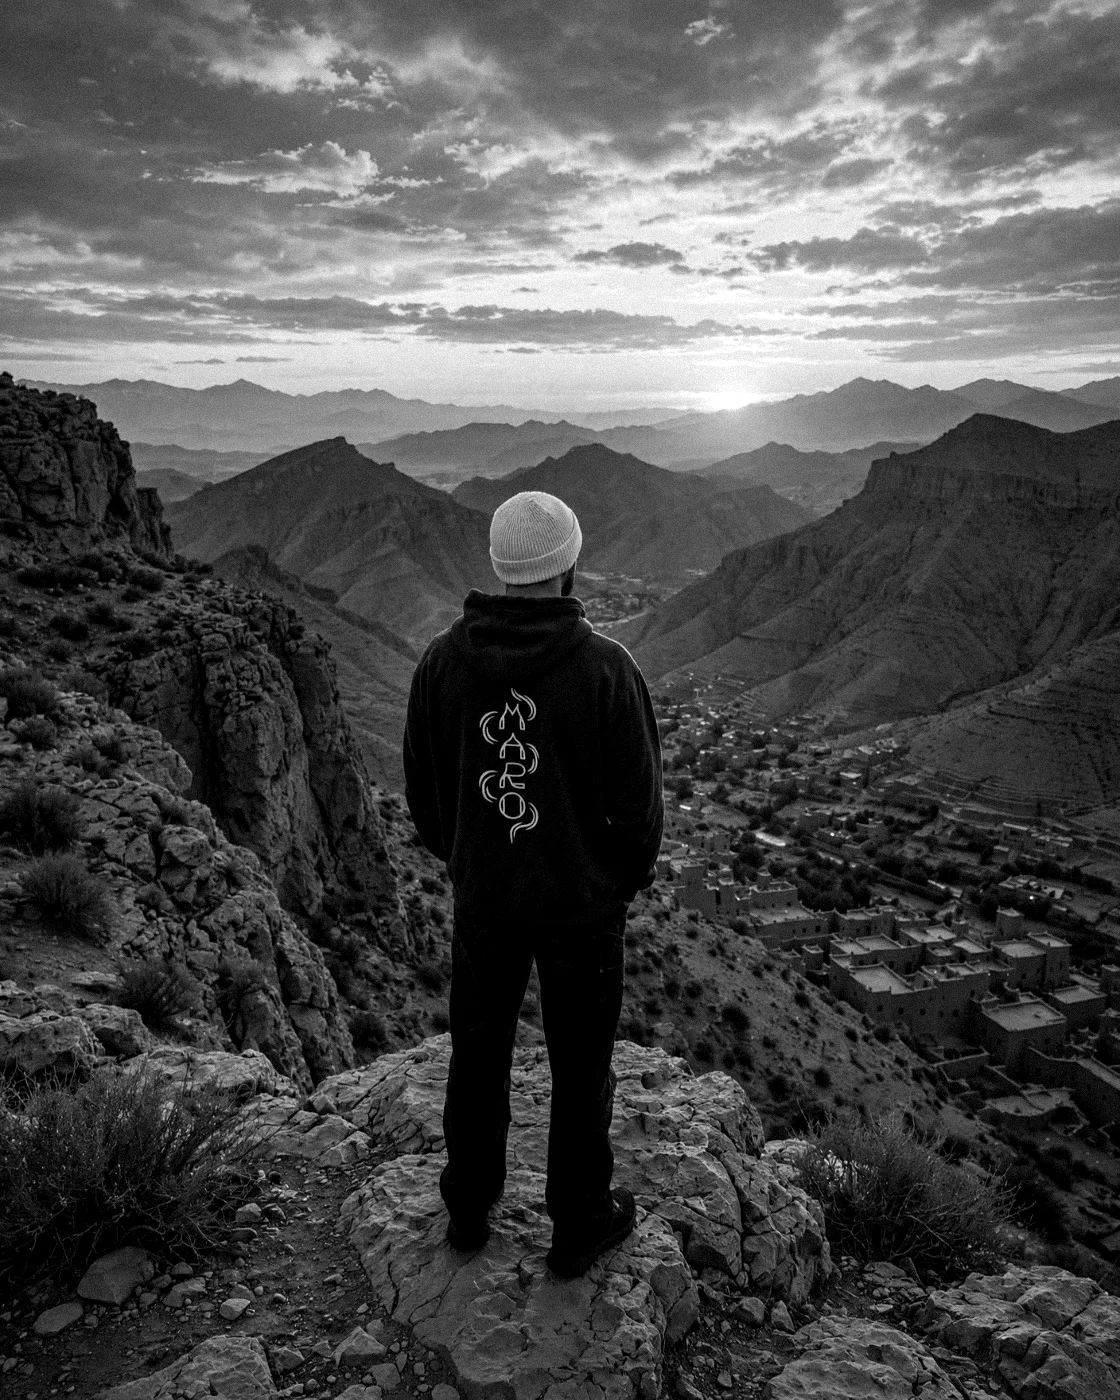
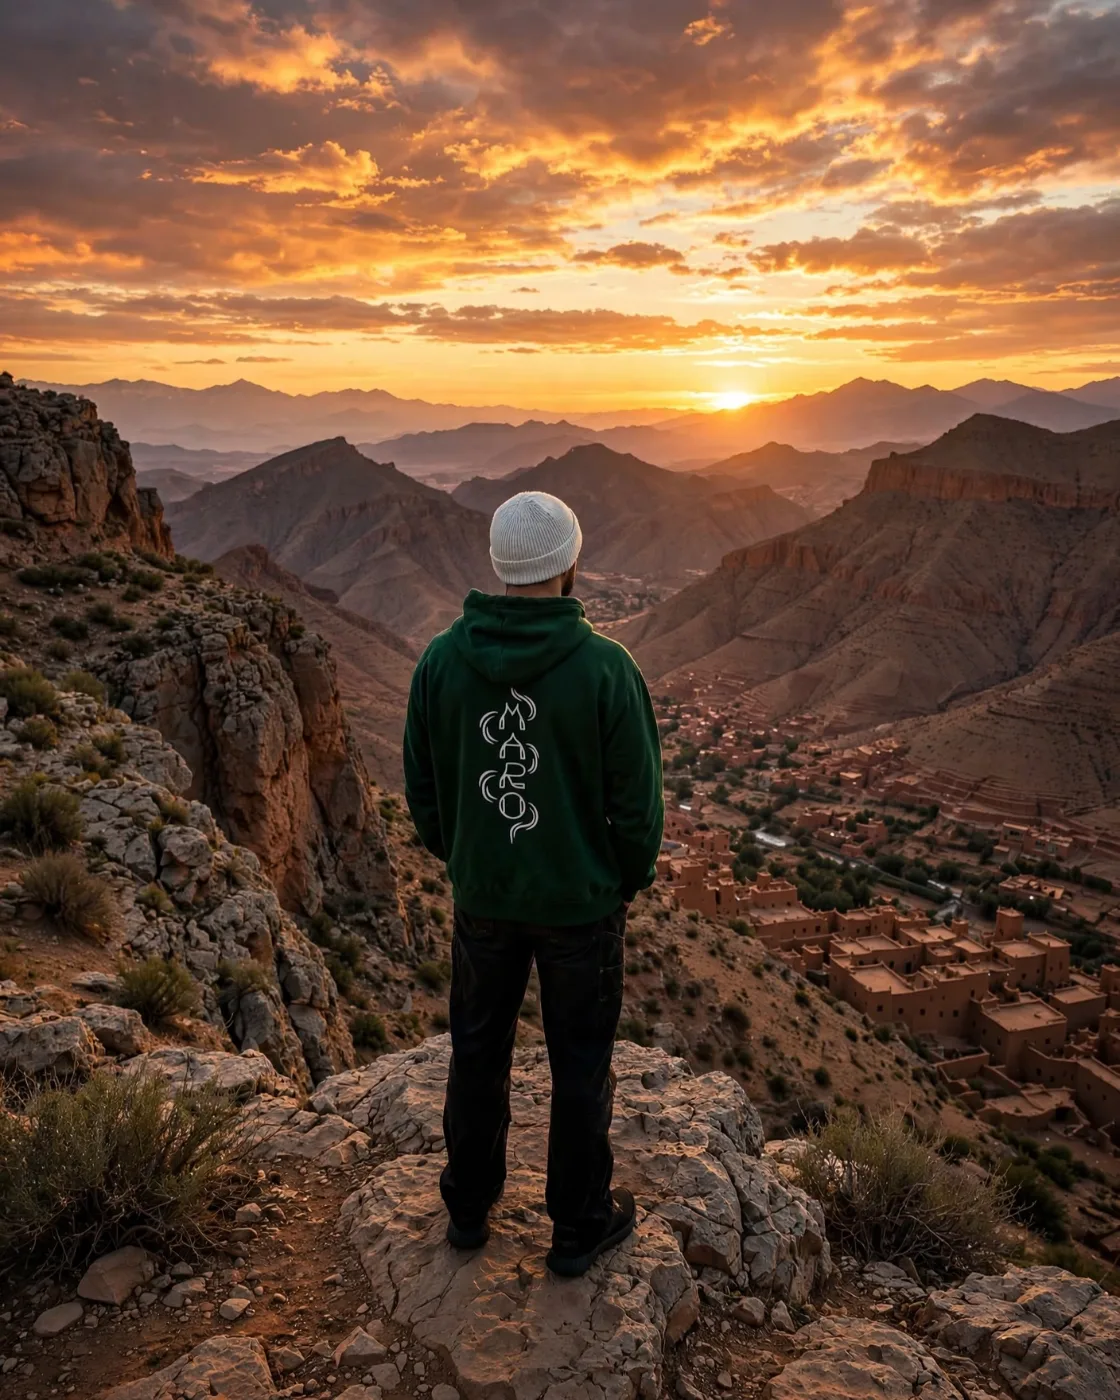
fix(telefono): apertura con video in alto e testo sotto; paesaggi al tramonto a colori

diff --git a/assets/css/maro.css b/assets/css/maro.css
@@ -235,8 +235,14 @@ details > p { margin: 0 0 20px; }
   .logo span { font-size: 26px; }
   .scheda h3 { font-size: 15px; }
   .scheda p { font-size: 14px; }
-  .apertura { height: calc(100svh - var(--testata) - 34px); min-height: 440px; }
-  .apertura-video { left: 0; width: 100%; aspect-ratio: auto; object-position: 73% 50%; -webkit-mask-image: none; mask-image: none; }
+  /* telefono: video in alto (insegna intera), testo sotto su nero, niente sovrapposizioni */
+  .apertura { height: auto; min-height: 0; max-height: none; padding-top: 40svh; }
+  .apertura-video { left: 0; width: 100%; height: 40svh; aspect-ratio: auto; object-position: 66% 50%; -webkit-mask-image: none; mask-image: none; }
+  .apertura::after { inset: 0 0 auto 0; height: 40svh; background: linear-gradient(180deg, rgba(0,0,0,0) 62%, #000 100%) !important; }
+  .apertura-testo { position: relative; left: auto; right: auto; bottom: auto; padding: 4px var(--lato) 28px; }
+  .apertura h1 { font-size: clamp(48px, 15vw, 64px); }
+  .apertura p { margin: 12px 0 18px; }
+  .apertura .occhiello { margin-bottom: 10px; }
   .pulsanti .btn { flex: 1 1 auto; }
   .piede-alto { grid-template-columns: 1fr 1fr; gap: 24px 16px; }
   .piede-basso { flex-direction: column; align-items: flex-start; }
@@ -398,4 +404,8 @@ details > p { margin: 0 0 20px; }
   .st-hero-testo { position: static; max-width: none; padding: 28px var(--lato) 40px; }
   .st-hero-foto::after { display: none; }
   .st-blocco, .st-blocco.st-inverso { grid-template-columns: 1fr; grid-template-areas: 'testo' 'media'; }
+}
+@media (max-width: 599px) and (max-height: 620px) {
+  .apertura { padding-top: 34svh; }
+  .apertura-video, .apertura::after { height: 34svh; }
 }

diff --git a/_build/foto.js b/_build/foto.js
@@ -46,8 +46,8 @@ const LAVORI = [
   // scene (set 5 del 12/10): campagna e pagina del brand, a colori, senza tagli
   { out: 'scena-ricamo-mani', src: 'foto-set-5-2026-10-12/845684221_1655451425975308_3820682003388145130_n.webp', bn: true },
   { out: 'scena-capi-maro', src: 'foto-set-5-2026-10-12/846966136_2610599519436733_3385366467222422541_n.webp', bn: true },
-  { out: 'scena-orizzonte', src: 'foto-set-5-2026-10-12/846053658_1783488912923974_9001021024052174187_n.webp', bn: true },
-  { out: 'scena-dolomiti', src: 'foto-set-5-2026-10-12/845962368_1854137572601714_822437747464123275_n.webp', max: 2048, q: 0.86, bn: true },
+  { out: 'scena-orizzonte', src: 'foto-set-5-2026-10-12/846053658_1783488912923974_9001021024052174187_n.webp' },
+  { out: 'scena-dolomiti', src: 'foto-set-5-2026-10-12/845962368_1854137572601714_822437747464123275_n.webp', max: 2048, q: 0.86 },
   { out: 'scena-citta', src: 'foto-set-5-2026-10-12/846613319_4604241063165391_3335941884249520016_n.webp', bn: true },
   { out: 'scena-ricamo-vicino', src: 'foto-set-5-2026-10-12/846671117_924186993887815_3303255480979063179_n.webp', bn: true },
   { out: 'scena-showroom', src: 'foto-set-5-2026-10-12/840312014_28569449039377509_7023473326715691606_n.webp', bn: true },

diff --git a/index.html b/index.html
@@ -11,8 +11,8 @@
 <link rel="preconnect" href="https://fonts.googleapis.com">
 <link rel="preconnect" href="https://fonts.gstatic.com" crossorigin>
 <link rel="stylesheet" href="https://fonts.googleapis.com/css2?family=Anton&family=Archivo:wght@400;500;600;700&display=swap">
-<link rel="stylesheet" href="assets/css/maro.css?v=15">
-<script defer src="assets/js/maro.js?v=15"></script>
+<link rel="stylesheet" href="assets/css/maro.css?v=16">
+<script defer src="assets/js/maro.js?v=16"></script>
 </head>
 <body class="home">
 <svg width="0" height="0" style="position:absolute" aria-hidden="true"><defs>

diff --git a/aiuto.html b/aiuto.html
@@ -11,8 +11,8 @@
 <link rel="preconnect" href="https://fonts.googleapis.com">
 <link rel="preconnect" href="https://fonts.gstatic.com" crossorigin>
 <link rel="stylesheet" href="https://fonts.googleapis.com/css2?family=Anton&family=Archivo:wght@400;500;600;700&display=swap">
-<link rel="stylesheet" href="assets/css/maro.css?v=15">
-<script defer src="assets/js/maro.js?v=15"></script>
+<link rel="stylesheet" href="assets/css/maro.css?v=16">
+<script defer src="assets/js/maro.js?v=16"></script>
 </head>
 <body>
 <svg width="0" height="0" style="position:absolute" aria-hidden="true"><defs>

diff --git a/felpa-firma.html b/felpa-firma.html
@@ -11,8 +11,8 @@
 <link rel="preconnect" href="https://fonts.googleapis.com">
 <link rel="preconnect" href="https://fonts.gstatic.com" crossorigin>
 <link rel="stylesheet" href="https://fonts.googleapis.com/css2?family=Anton&family=Archivo:wght@400;500;600;700&display=swap">
-<link rel="stylesheet" href="assets/css/maro.css?v=15">
-<script defer src="assets/js/maro.js?v=15"></script>
+<link rel="stylesheet" href="assets/css/maro.css?v=16">
+<script defer src="assets/js/maro.js?v=16"></script>
 </head>
 <body>
 <svg width="0" height="0" style="position:absolute" aria-hidden="true"><defs>

diff --git a/felpa-stretta.html b/felpa-stretta.html
@@ -11,8 +11,8 @@
 <link rel="preconnect" href="https://fonts.googleapis.com">
 <link rel="preconnect" href="https://fonts.gstatic.com" crossorigin>
 <link rel="stylesheet" href="https://fonts.googleapis.com/css2?family=Anton&family=Archivo:wght@400;500;600;700&display=swap">
-<link rel="stylesheet" href="assets/css/maro.css?v=15">
-<script defer src="assets/js/maro.js?v=15"></script>
+<link rel="stylesheet" href="assets/css/maro.css?v=16">
+<script defer src="assets/js/maro.js?v=16"></script>
 </head>
 <body>
 <svg width="0" height="0" style="position:absolute" aria-hidden="true"><defs>

diff --git a/felpa-verticale.html b/felpa-verticale.html
@@ -11,8 +11,8 @@
 <link rel="preconnect" href="https://fonts.googleapis.com">
 <link rel="preconnect" href="https://fonts.gstatic.com" crossorigin>
 <link rel="stylesheet" href="https://fonts.googleapis.com/css2?family=Anton&family=Archivo:wght@400;500;600;700&display=swap">
-<link rel="stylesheet" href="assets/css/maro.css?v=15">
-<script defer src="assets/js/maro.js?v=15"></script>
+<link rel="stylesheet" href="assets/css/maro.css?v=16">
+<script defer src="assets/js/maro.js?v=16"></script>
 </head>
 <body>
 <svg width="0" height="0" style="position:absolute" aria-hidden="true"><defs>

diff --git a/polo-jacquard.html b/polo-jacquard.html
@@ -11,8 +11,8 @@
 <link rel="preconnect" href="https://fonts.googleapis.com">
 <link rel="preconnect" href="https://fonts.gstatic.com" crossorigin>
 <link rel="stylesheet" href="https://fonts.googleapis.com/css2?family=Anton&family=Archivo:wght@400;500;600;700&display=swap">
-<link rel="stylesheet" href="assets/css/maro.css?v=15">
-<script defer src="assets/js/maro.js?v=15"></script>
+<link rel="stylesheet" href="assets/css/maro.css?v=16">
+<script defer src="assets/js/maro.js?v=16"></script>
 </head>
 <body>
 <svg width="0" height="0" style="position:absolute" aria-hidden="true"><defs>

diff --git a/polo-linee.html b/polo-linee.html
@@ -11,8 +11,8 @@
 <link rel="preconnect" href="https://fonts.googleapis.com">
 <link rel="preconnect" href="https://fonts.gstatic.com" crossorigin>
 <link rel="stylesheet" href="https://fonts.googleapis.com/css2?family=Anton&family=Archivo:wght@400;500;600;700&display=swap">
-<link rel="stylesheet" href="assets/css/maro.css?v=15">
-<script defer src="assets/js/maro.js?v=15"></script>
+<link rel="stylesheet" href="assets/css/maro.css?v=16">
+<script defer src="assets/js/maro.js?v=16"></script>
 </head>
 <body>
 <svg width="0" height="0" style="position:absolute" aria-hidden="true"><defs>

diff --git a/polo-tricolore.html b/polo-tricolore.html
@@ -11,8 +11,8 @@
 <link rel="preconnect" href="https://fonts.googleapis.com">
 <link rel="preconnect" href="https://fonts.gstatic.com" crossorigin>
 <link rel="stylesheet" href="https://fonts.googleapis.com/css2?family=Anton&family=Archivo:wght@400;500;600;700&display=swap">
-<link rel="stylesheet" href="assets/css/maro.css?v=15">
-<script defer src="assets/js/maro.js?v=15"></script>
+<link rel="stylesheet" href="assets/css/maro.css?v=16">
+<script defer src="assets/js/maro.js?v=16"></script>
 </head>
 <body>
 <svg width="0" height="0" style="position:absolute" aria-hidden="true"><defs>

diff --git a/storia.html b/storia.html
@@ -11,8 +11,8 @@
 <link rel="preconnect" href="https://fonts.googleapis.com">
 <link rel="preconnect" href="https://fonts.gstatic.com" crossorigin>
 <link rel="stylesheet" href="https://fonts.googleapis.com/css2?family=Anton&family=Archivo:wght@400;500;600;700&display=swap">
-<link rel="stylesheet" href="assets/css/maro.css?v=15">
-<script defer src="assets/js/maro.js?v=15"></script>
+<link rel="stylesheet" href="assets/css/maro.css?v=16">
+<script defer src="assets/js/maro.js?v=16"></script>
 </head>
 <body>
 <svg width="0" height="0" style="position:absolute" aria-hidden="true"><defs>

diff --git a/_build/build.js b/_build/build.js
@@ -3,7 +3,7 @@ const fs = require('fs'), path = require('path');
 const ROOT = path.resolve(__dirname, '..');
 const CATALOGO = require('./catalogo');
 const MISURE = require('./foto-misure.json');
-const V = '15'; // versione di css/js: aumentarla a ogni modifica pubblicata
+const V = '16'; // versione di css/js: aumentarla a ogni modifica pubblicata
 
 // controllo: ogni foto in un solo punto del sito (le foto dei capi appartengono al loro capo)
 const usate = new Map();
